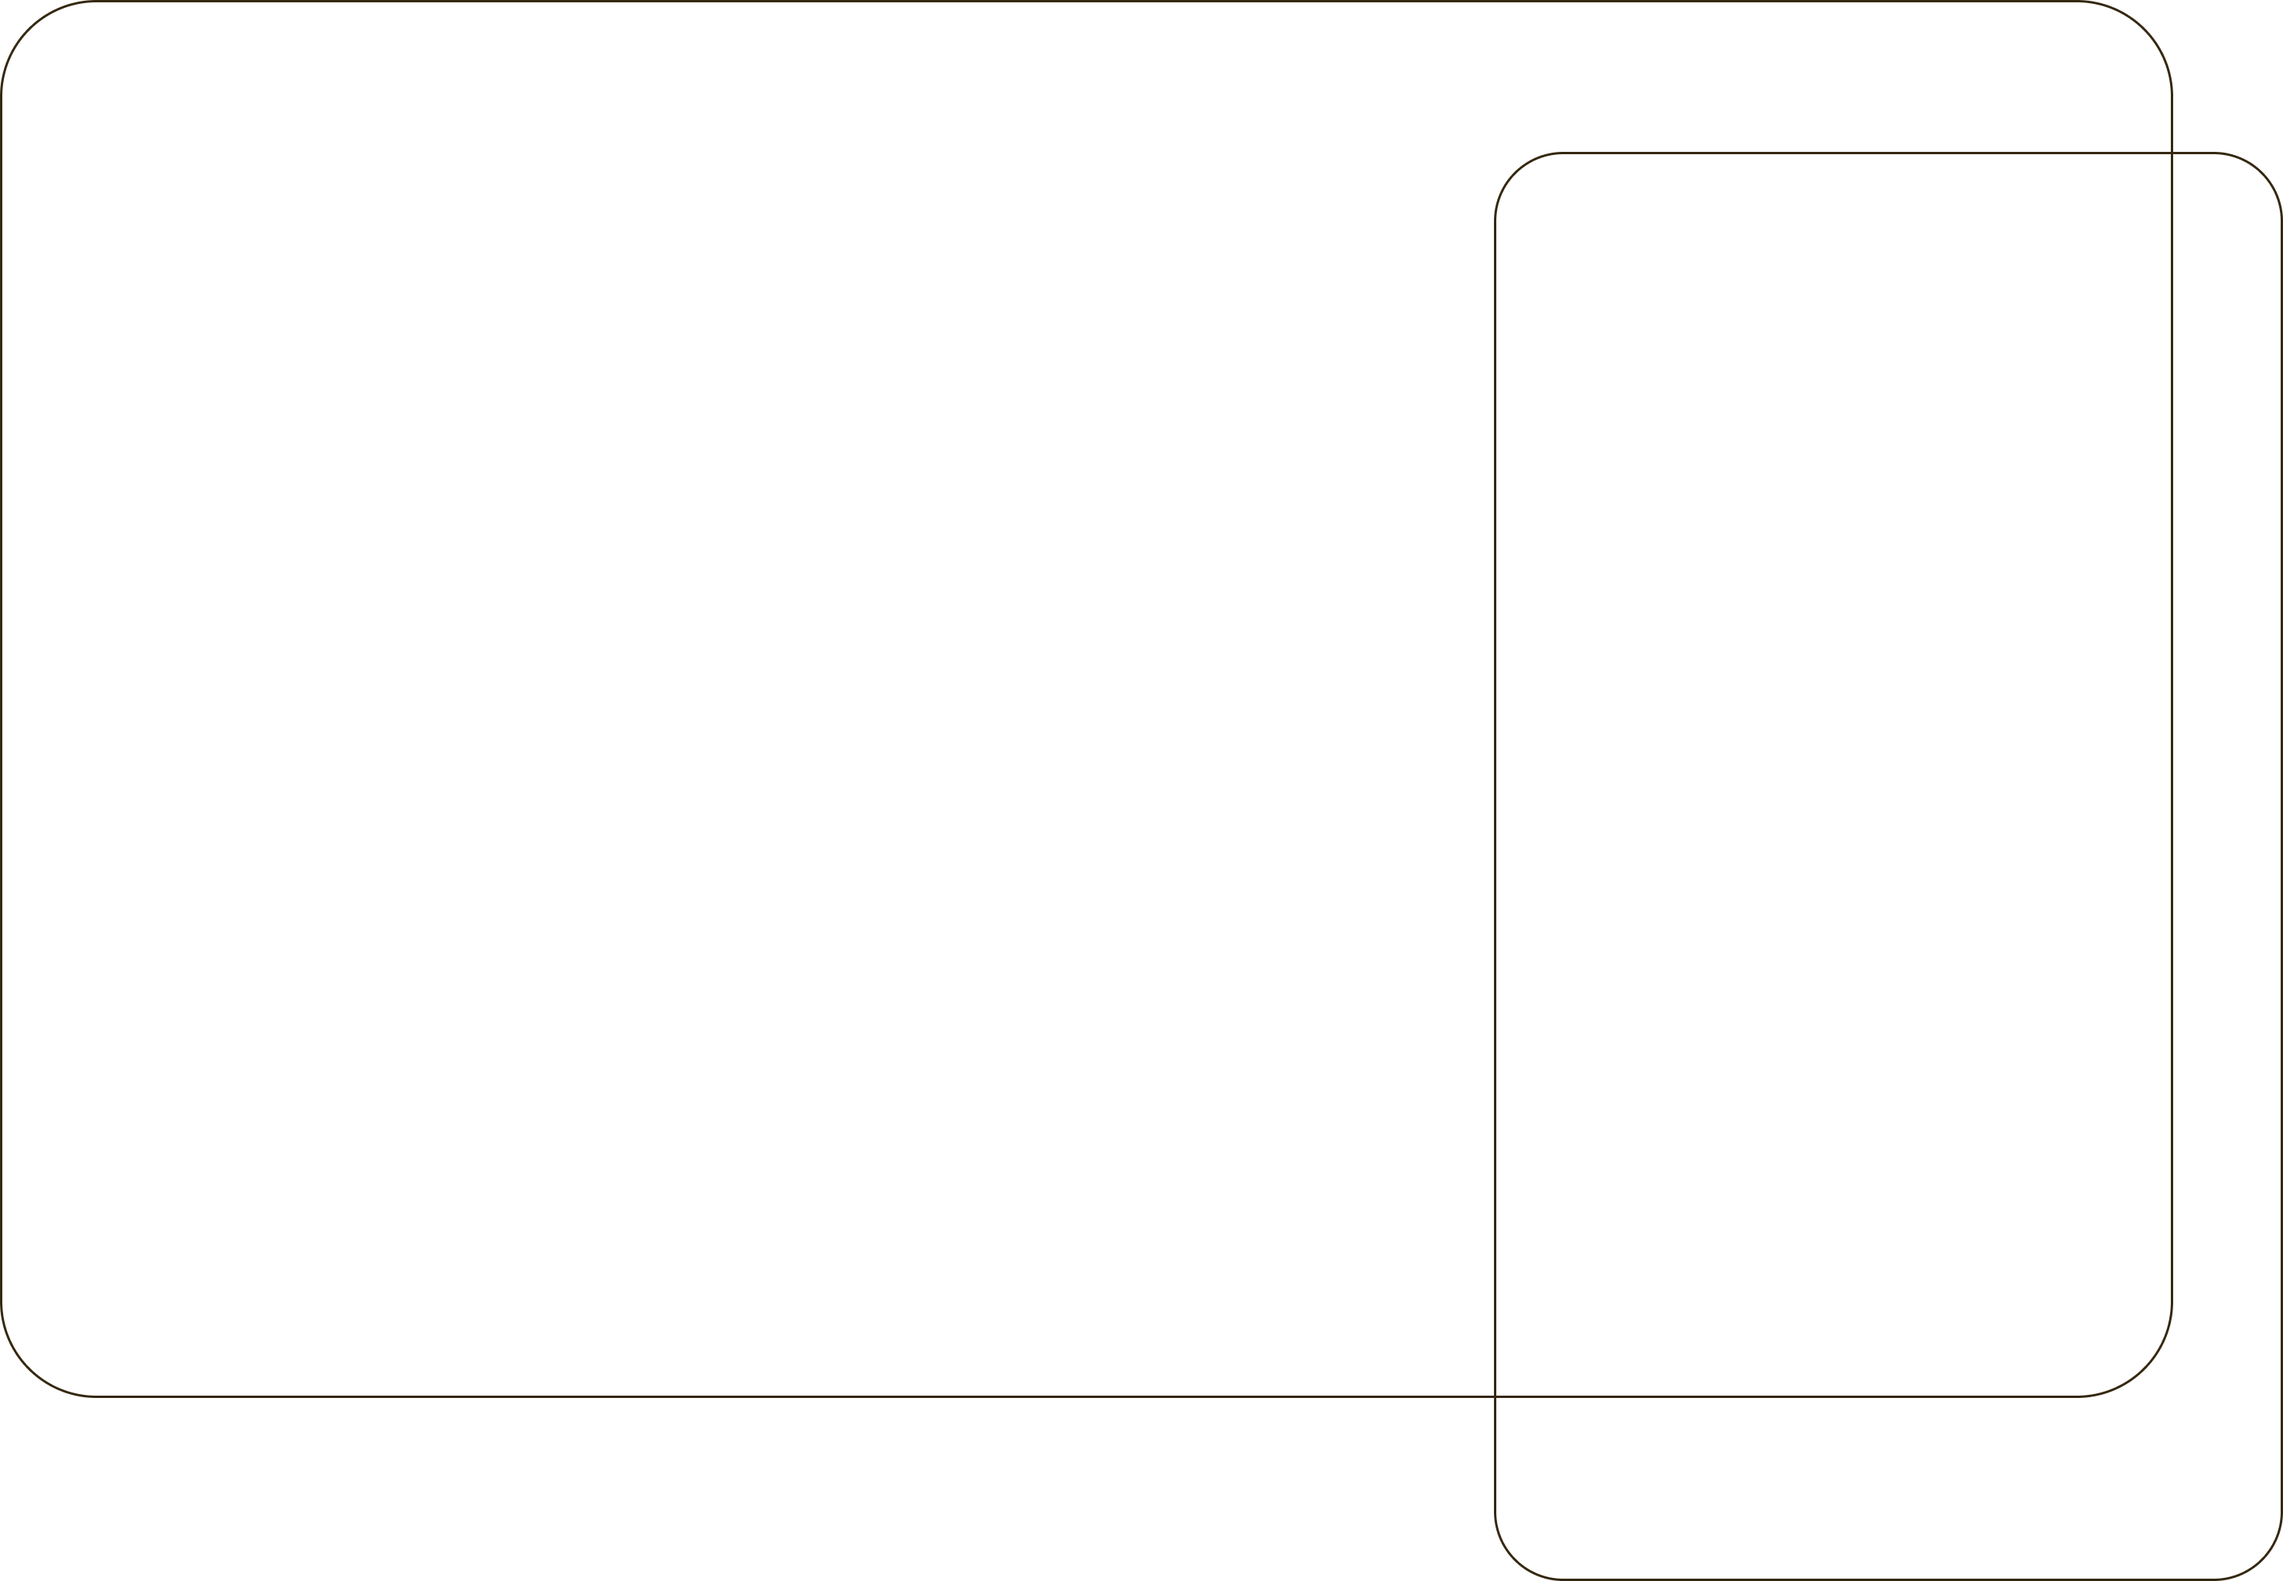
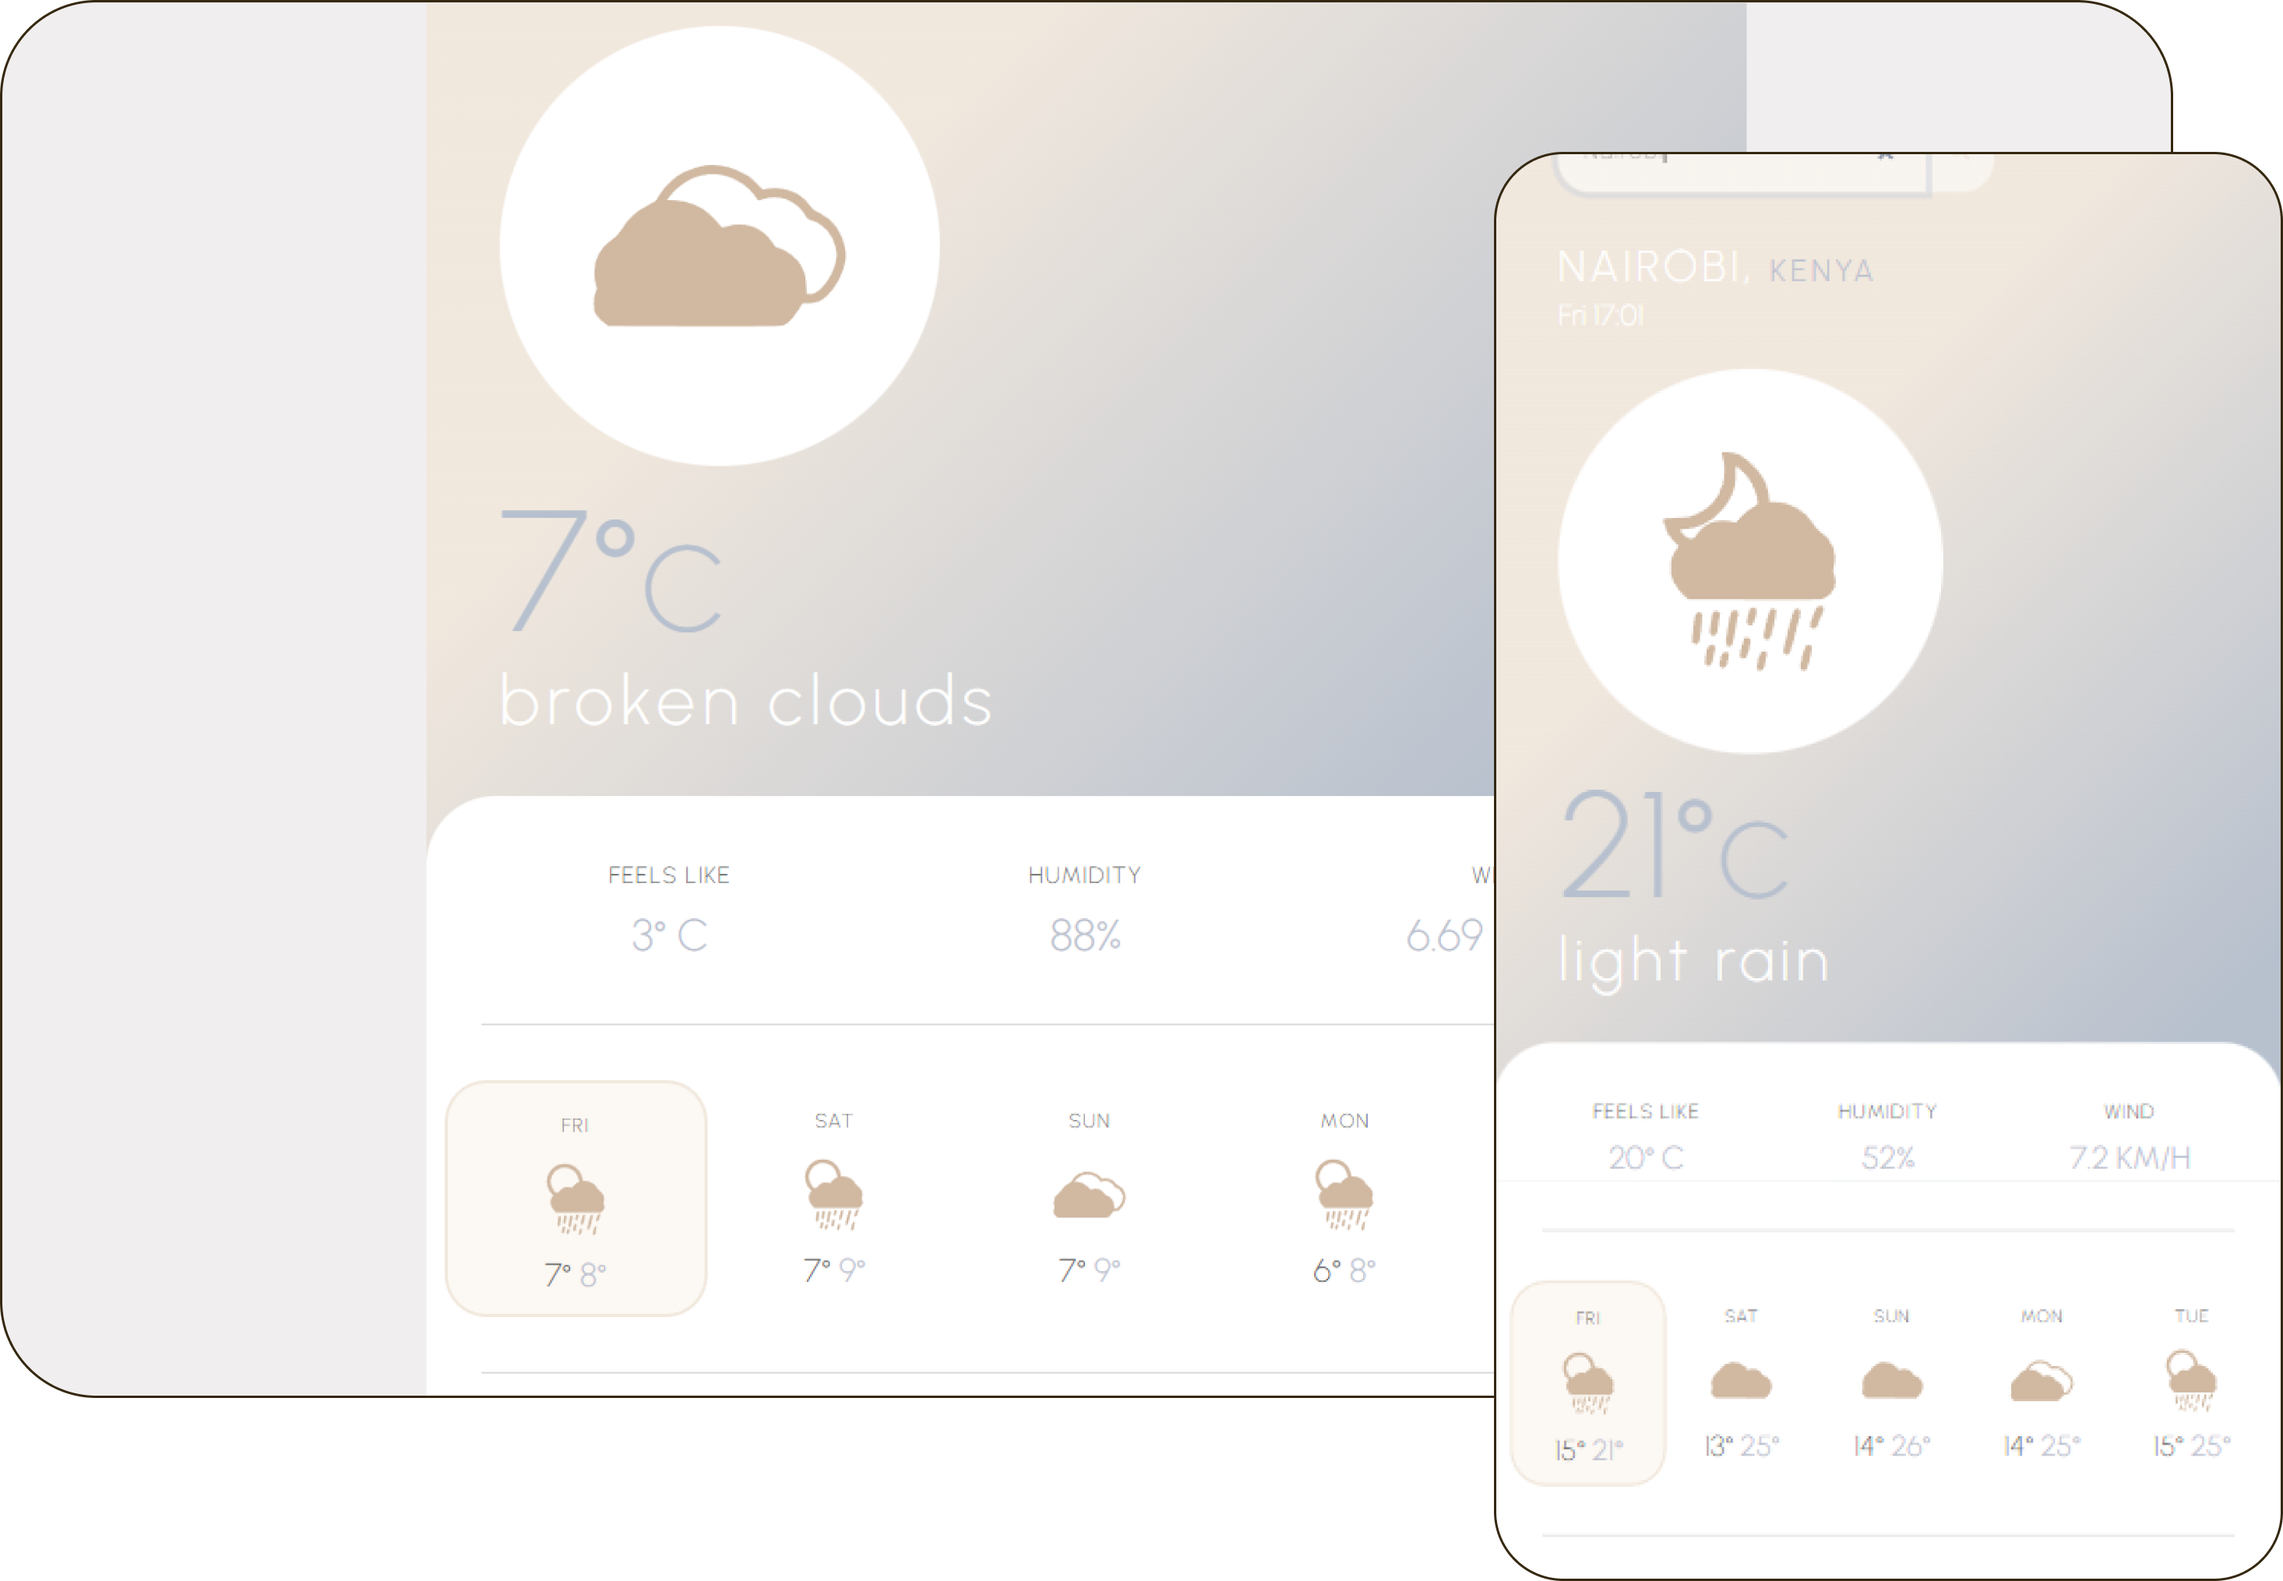
Added React content, removed unnecessary images

diff --git a/projects.html b/projects.html
@@ -59,15 +59,15 @@
             <div class="section-1">
                 <div class="row mt-4 mb-4 p-3">
                     <div class="col-sm-6 col-md-8 order-sm-first order-last sub-1">
-                        <img class="img-fluid project-image" src="/images/weather-app-group.png"
-                            alt="Bonnie Axelsen weather app group">
+                        <img class="img-fluid project-image" src="/images/weather-app-group2.0.png"
+                            alt="Bonnie Axelsen weather app group 2.0 React">
                         <hr>
                     </div>
                     <div class="col-sm-6 col-md-4 order-sm-last order-first sub-2 ">
-                        <h2>weather app</h2>
-                        <p>Created using Bootstrap, HTML, CSS and vanilla JS. This app is responsive and uses an
+                        <h2>weather app 2.0</h2>
+                        <p>Created using React, Bootstrap, HTML & CSS. This app is responsive and uses an
                             API.</p>
-                        <a href="https://sprightly-cascaron-d36548.netlify.app" target="_blank">
+                        <a href="https://ubiquitous-starlight-ada927.netlify.app/" target="_blank">
                             <button type="button" class="btn secondary-button-link">
                                 Launch project
                             </button>
@@ -78,12 +78,18 @@
             <div class="section-2">
                 <div class="row mt-4 mb-4 p-4">
                     <div class="col-sm-6 col-md-4 sub-3">
-                        <h2>weather app 2.0</h2>
-                        <p>coming soon</p>
+                        <h2>weather app</h2>
+                        <p>Created using Bootstrap, HTML, CSS and vanilla JS. This app is responsive and uses an
+                            API.</p>
+                        <a href="https://sprightly-cascaron-d36548.netlify.app" target="_blank">
+                            <button type="button" class="btn secondary-button-link">
+                                Launch project
+                            </button>
+                        </a>
                     </div>
                     <div class="col-sm-6 col-md-8 sub-4">
-                        <img class="img-fluid project-image" src="/images/weather-app-group2.0.png"
-                            alt="Bonnie Axelsen weather app group 2.0 React">
+                        <img class="img-fluid project-image" src="/images/weather-app-group.png"
+                            alt="Bonnie Axelsen weather app group">
                         <hr>
                     </div>
                 </div>

diff --git a/index.html b/index.html
@@ -271,6 +271,7 @@
                         <p>SheCodes Basics Workshop, 2022 - SheCodes.io</p>
                         <p>SheCodes Plus Workshop, 2022 - SheCodes.io</p>
                         <p>SheCodes Responsive Workshop, 2022 - SheCodes.io</p>
+                        <p>SheCodes React Workshop, 2022 - SheCodes.io</p>
                         <br>
                         <p>Bachelor of Design, 2015 - Whitehouse Institute of Design, Melbourne</p>
                         <hr>

diff --git a/styles/portfolio.css b/styles/portfolio.css
@@ -357,6 +357,10 @@ hr {
   padding-bottom: 2.5vh;
 }
 
+.image-grid {
+  width: 100%;
+}
+
 /* Footer */
 footer {
   background-color: #a3a8b3;
